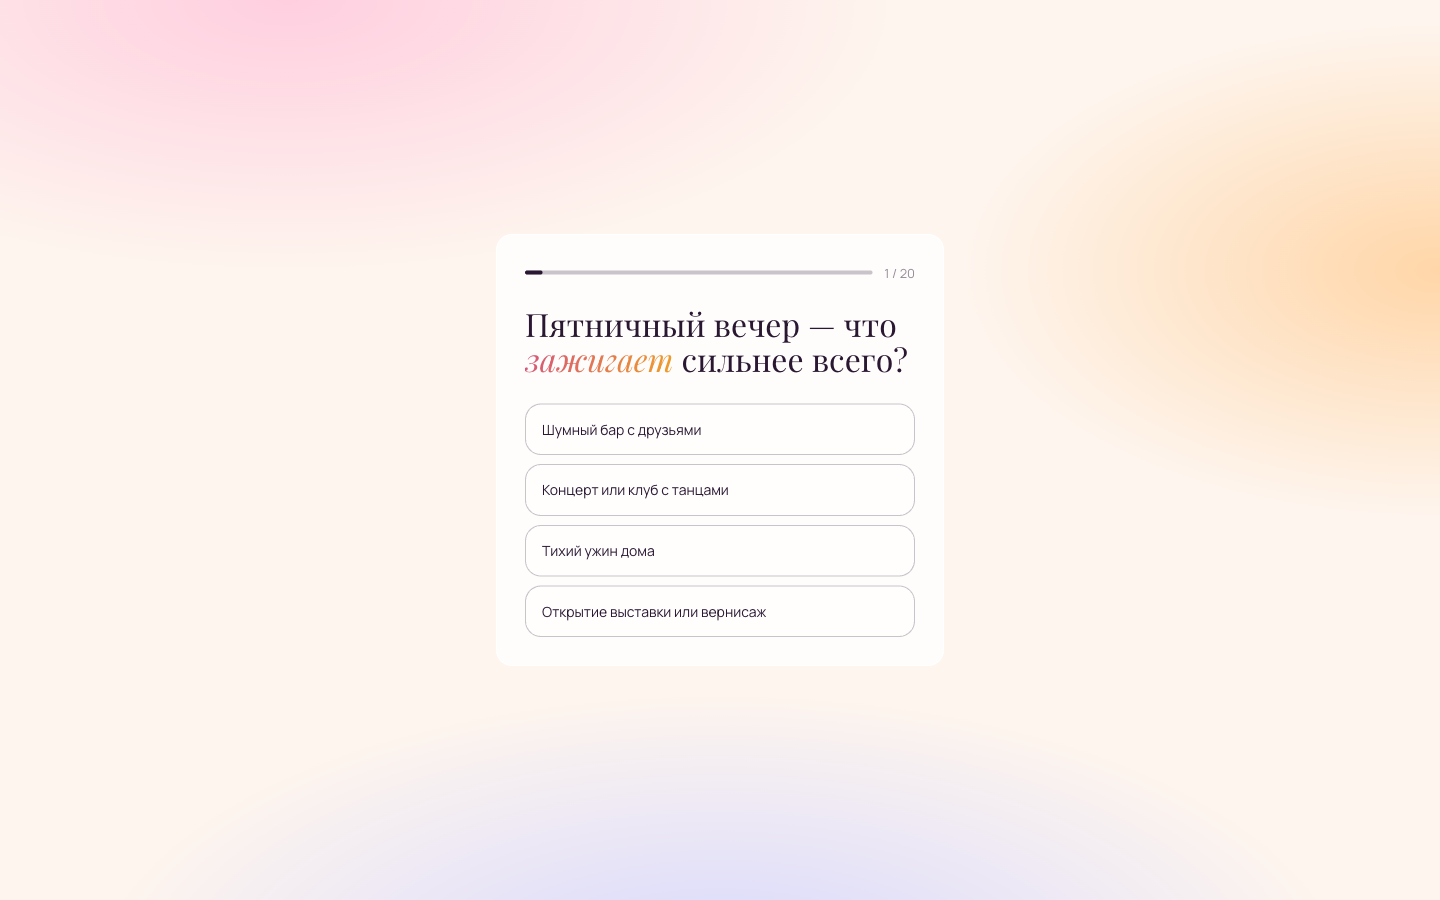
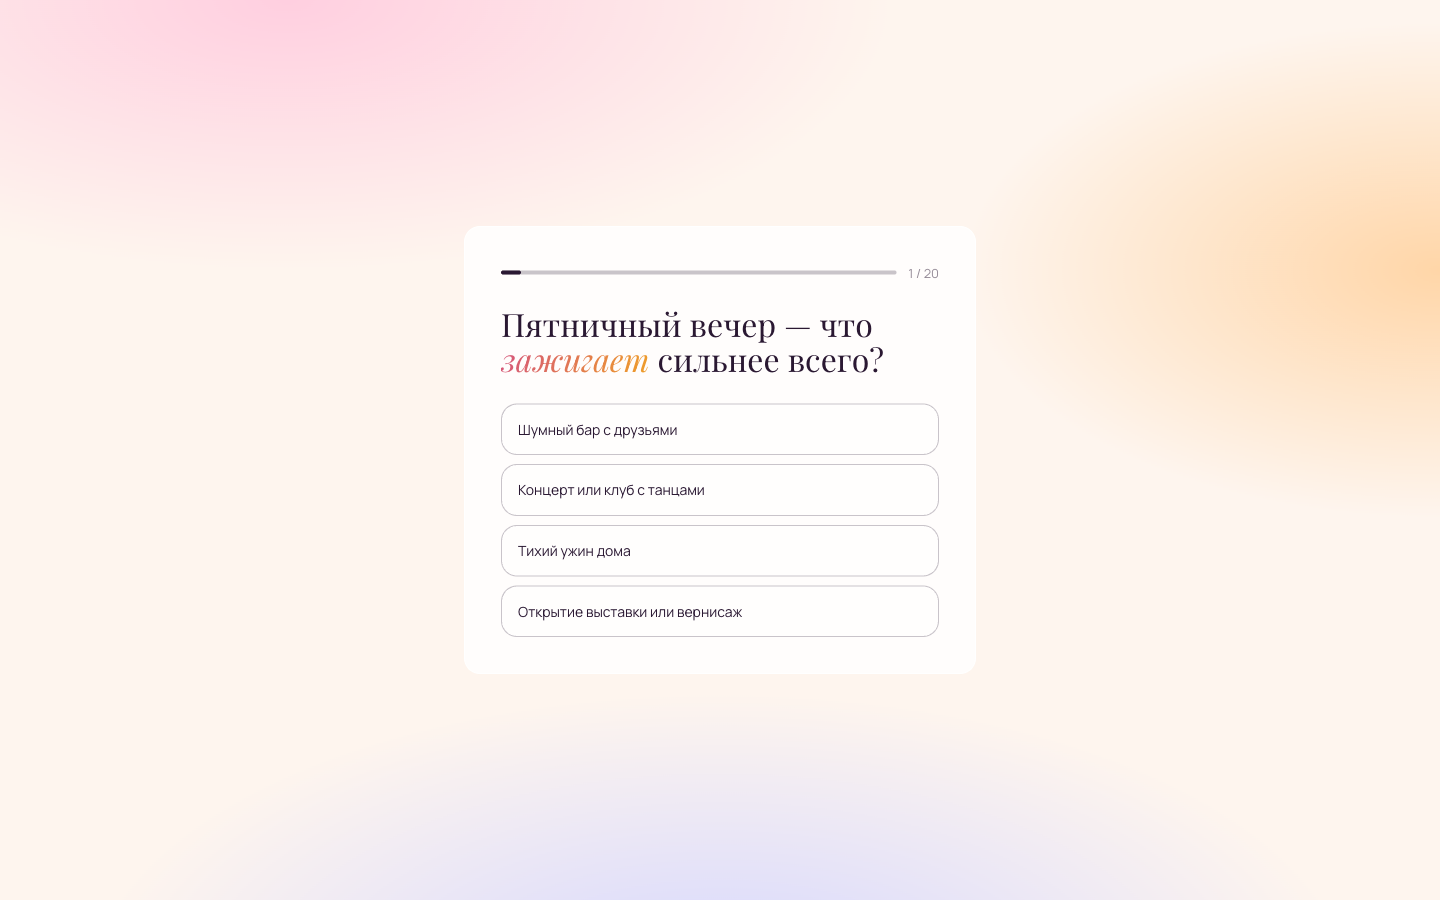
feat(sprint-1.2.D.0): 20Q-карточка — десктоп-композиция + баланс заголовка
Два точечных полиша 20Q-карточки (ниты 1 и 3 из тройки 1.2.C; нит 2 — опции —
остаётся task'ом 0.1.3, не трогаю). Только layout, без новых дизайн-токенов.

- Десктоп (нит 1): карточка «проваливалась» в пустом поле на >=1024px. На lg
  max-w-md -> max-w-lg (448->512px) + p-7 -> p-9: больше присутствия и воздуха,
  на 1440px композиция читается намеренно центрированной, не потерянной.
  Реализовано responsive-классами Tailwind (lg:), мобильный вид без изменений.
- Мобайл (нит 3): H2 вопроса рвался неудачно на 390px. Добавлен text-balance
  (text-wrap: balance) — строки распределяются ровно. Утилита уже была в
  globals.css; класс-only правка, ~0 CSS.

Скоуп — components/onboarding/QuestionCard.tsx (2 className). Без правок токенов
(max-width/text-wrap = layout, tokens §-правило соблюдено).

npm run build green (compiled + lint + types + prod, 11/11 страниц).
Live-verify (prod-сборка, реальная сессия): /onboarding/1 — скриншоты
desktop 1440x900 + mobile 390x844 в public/dev-screenshots (перезаписаны).

diff --git a/components/onboarding/QuestionCard.tsx b/components/onboarding/QuestionCard.tsx
@@ -26,7 +26,7 @@ export function QuestionCard({ q, step, total, submitAction, selectedKey }: Ques
 
   return (
     <div
-      className="w-full max-w-md rounded-card border border-white bg-glass-bg-strong p-7"
+      className="w-full max-w-md rounded-card border border-white bg-glass-bg-strong p-7 lg:max-w-lg lg:p-9"
       style={{ backdropFilter: 'blur(10px)', WebkitBackdropFilter: 'blur(10px)' }}
     >
       <div className="flex items-center gap-3">
@@ -41,7 +41,7 @@ export function QuestionCard({ q, step, total, submitAction, selectedKey }: Ques
         </span>
       </div>
 
-      <h2 className="mt-6 font-display text-[2rem] leading-[1.08] text-ink">
+      <h2 className="mt-6 text-balance font-display text-[2rem] leading-[1.08] text-ink">
         <AccentWord text={q.text} accent={q.accent_word} />
       </h2>
 
